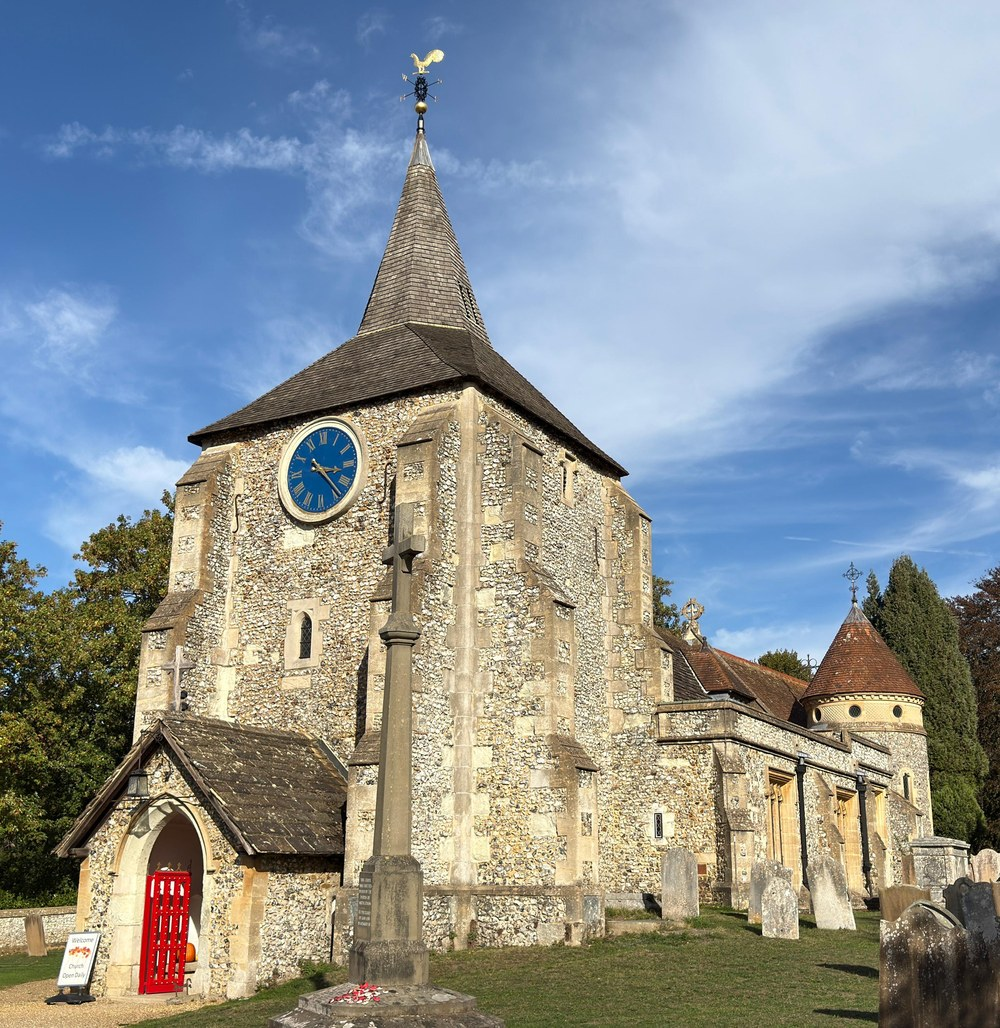
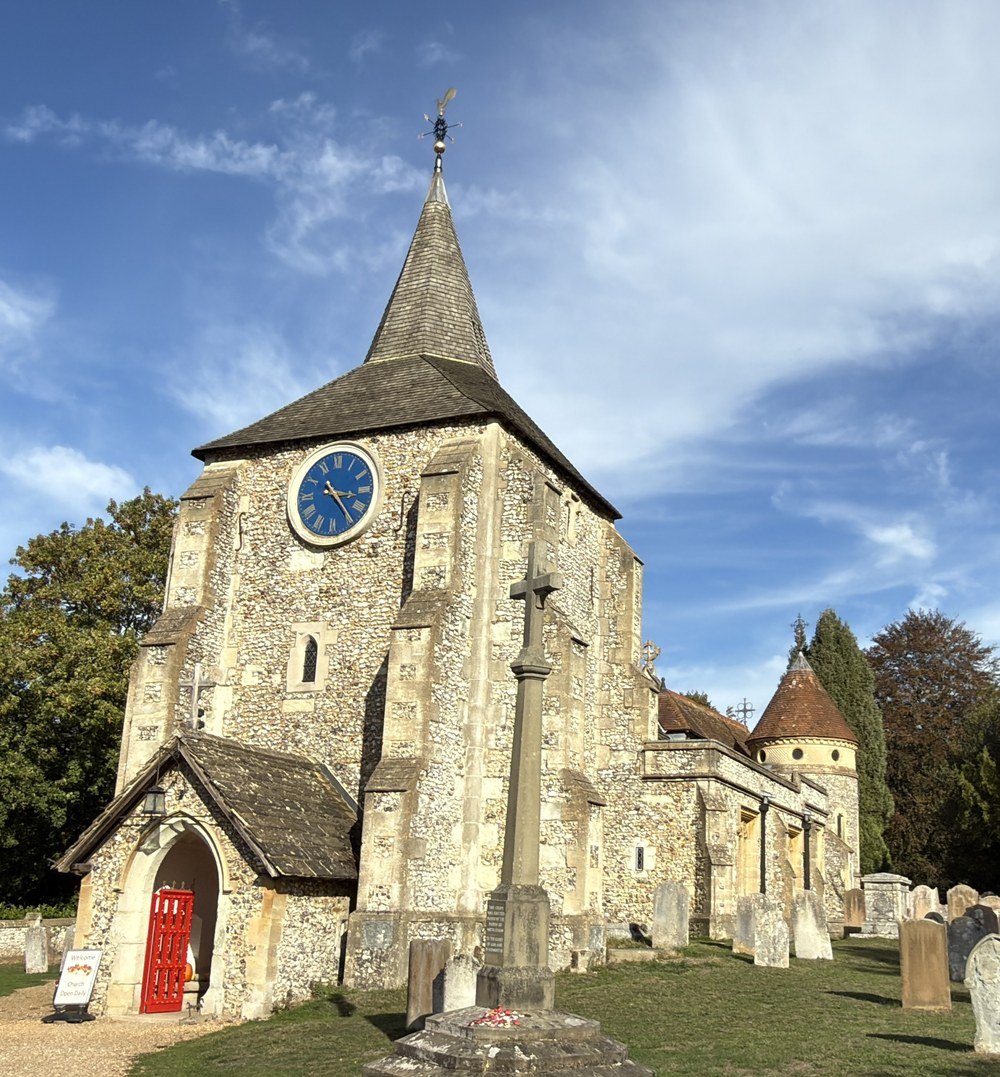
Frame homepage hero around the complete Ed Popov photograph

diff --git a/styles.css b/styles.css
@@ -46,13 +46,17 @@ img { max-width: 100%; }
 .btn-outline { color: white; border-color: white; background: #0002; }
 .btn-small { min-height: 40px; padding: 8px 15px; }
 .hero { position: relative; min-height: 590px; background: linear-gradient(115deg,#173d2d 0%,#315d49 65%,#758a70 100%); }
-.home-hero { background-position: center 55%; }
-.home-hero { background-color: var(--deep); background-image: url('assets/images/home/church-hero-large.jpg'); background-image: image-set(url('assets/images/home/church-hero-large.webp') type('image/webp'),url('assets/images/home/church-hero-large.jpg') type('image/jpeg')); background-position: center 25%; background-size: cover; background-repeat: no-repeat; }
-.home-hero .hero-overlay { background: linear-gradient(90deg,#18392dd9 0%,#18392dd1 30%,#18392da6 45%,#18392d14 60%,transparent 72%); }
-@media (max-width: 1200px) { .home-hero { background-image: url('assets/images/home/church-hero-medium.jpg'); background-image: image-set(url('assets/images/home/church-hero-medium.webp') type('image/webp'),url('assets/images/home/church-hero-medium.jpg') type('image/jpeg')); } .home-hero .hero-overlay { background: linear-gradient(90deg,#18392dd9 0%,#18392dbf 45%,#18392d99 75%,#18392d26 100%); } }
+/* Preserve the full original composition; the photograph determines desktop height. */
+.home-hero { min-height: 0; aspect-ratio: 4786 / 2692; background-color: var(--deep); background-image: url('assets/images/home/church-hero-large.jpg'); background-image: image-set(url('assets/images/home/church-hero-large.webp') type('image/webp'),url('assets/images/home/church-hero-large.jpg') type('image/jpeg')); background-size: 100% 100%; background-position: center; background-repeat: no-repeat; }
+.home-hero .hero-overlay { inset: 0 auto auto calc(max(0px, (100% - 1240px) / 2) - 100px); width: 800px; height: 520px; background: radial-gradient(ellipse closest-side at center, #18392dd9 0%, #18392dbf 45%, #18392d66 70%, transparent 100%); }
+.home-hero .hero-content { padding-top: clamp(48px, 6vw, 100px); padding-bottom: 32px; }
+.home-hero h1, .home-hero .hero-copy, .home-hero .eyebrow { text-shadow: 0 2px 5px #10271fc0; }
+.home-hero .hero-copy { max-width: 470px; }
+@media (max-width: 1200px) { .home-hero { background-image: url('assets/images/home/church-hero-medium.jpg'); background-image: image-set(url('assets/images/home/church-hero-medium.webp') type('image/webp'),url('assets/images/home/church-hero-medium.jpg') type('image/jpeg')); } .home-hero .hero-overlay { width: 720px; max-width: 100%; inset: -30px auto auto -90px; height: 480px; } }
 @media (max-width: 600px) {
-  .home-hero { background-image: url('assets/images/home/church-hero-mobile.jpg'); background-image: image-set(url('assets/images/home/church-hero-mobile.webp') type('image/webp'),url('assets/images/home/church-hero-mobile.jpg') type('image/jpeg')); background-size: cover; background-position: 35% top; }
-  .home-hero .hero-overlay { background: linear-gradient(90deg,#18392dcc 0%,#18392d99 65%,#18392d40 100%); }
+  .home-hero { aspect-ratio: auto; min-height: 650px; background-image: url('assets/images/home/church-hero-mobile.jpg'); background-image: image-set(url('assets/images/home/church-hero-mobile.webp') type('image/webp'),url('assets/images/home/church-hero-mobile.jpg') type('image/jpeg')); background-size: cover; background-position: 40% top; }
+  .home-hero .hero-content { padding-top: 290px; padding-bottom: 28px; }
+  .home-hero .hero-overlay { inset: auto 0 0; width: 100%; max-width: none; height: 480px; background: linear-gradient(0deg,#18392de6 0%,#18392dd9 55%,#18392d99 80%,transparent 100%); }
 }
 .hero-overlay { position: absolute; inset: 0; background: linear-gradient(90deg, #12251cc9, #12251c33 70%, #0001); }
 .hero-content { position: relative; padding-top: clamp(100px, 13vw, 155px); padding-bottom: 120px; color: white; }
@@ -878,7 +882,7 @@ h3 { font-family: var(--serif); }
 .footer .footer-photo-credit { margin-top: 18px; margin-bottom: 12px; color: #c4d0c7; font-size: 11px; line-height: 1.6; } .footer .footer-photo-credit a { display: inline; margin: 0; color: #e6cf88; font-size: inherit; text-decoration: underline; text-underline-offset: 3px; } .footer-photo-credit a:focus-visible { outline: 2px solid #e6cf88; outline-offset: 3px; }
 @media (min-width: 1201px) {
   /* A taller photographic canvas retains both the spire and entrance with cover. */
-  .home-hero { min-height: clamp(590px, 48vw, 920px); }
+  .home-hero { min-height: 0; }
 }
 
 /* Compact shared parish footer: paired features, three information areas, slim credits. */

diff --git a/assets/images/home/README.md b/assets/images/home/README.md
@@ -1,13 +1,8 @@
 # Homepage photograph
 
-Original filename: WhatsApp Image 2026-10-04 at 19.56.46.jpeg
-Photographer: Ed Popov
-Supplied: 4 October 2026; original dimensions: 5120 × 2879 pixels.
+Original: IMG_E6523.JPG, 4786 × 2692 pixels. Photographer: Ed Popov.
+Supplied 4 October 2026. Ed Popov permitted St Michael & All Angels Church, Mickleham & Westhumble to use this photograph on the website; no public credit is required. This is not a Creative Commons licence.
 
-Ed Popov expressly permitted St Michael & All Angels Church, Mickleham & Westhumble to use this photograph on the church website. No public photo credit is required. This permission is specific to this photograph; do not assume it grants a Creative Commons licence or unrestricted third-party reuse.
+Large: 3200 × 1800; medium: 1920 × 1080. These retain the entire scene. Mobile: 1000 × 1077, cropped from original rectangle (850, 0, 3350, 2692). Each has WebP and progressive JPEG versions. Only cropping, resizing and compression were applied, with no AI manipulation or colour grading.
 
-Web derivatives: 2880-pixel large, 1920-pixel medium and 1000-pixel mobile versions, in WebP and progressive JPEG. Desktop/tablet files retain the complete original scene. Mobile uses the original rectangle (1100, 0, 3900, 2879), retaining the tower, spire and entrance. CSS cover positioning also crops the visible scene responsively.
-
-Only resizing, cropping and compression were applied. Colours and objects were not altered; no AI processing, artificial blur or colour grading was used.
-
-These files replace the previous JFVoll / Wikimedia Commons homepage photograph. Its homepage-only public attribution was removed because that photograph is no longer used as the hero. Unrelated asset licences remain unchanged.
+Desktop hero uses the original aspect ratio to show the entire scene without cover cropping. Mobile uses its dedicated crop, positioned 40% top, and lower text shading. The previous Wikimedia hero and its homepage-only attribution are no longer used.
